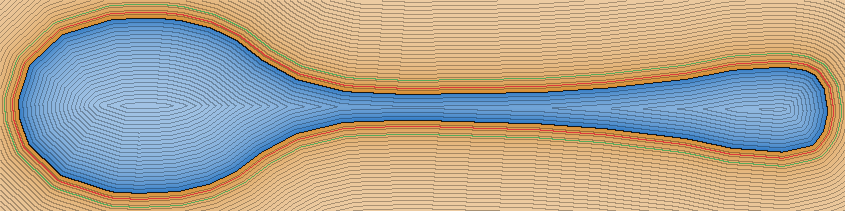
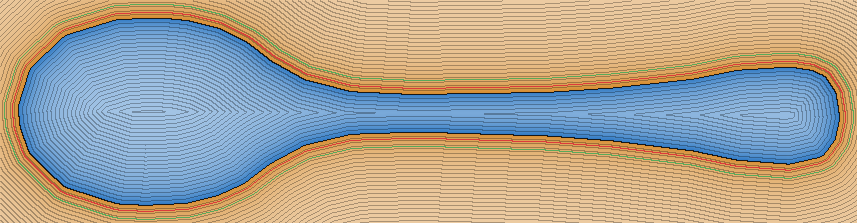
Draw both object and pocket contours.

diff --git a/pipeline/layout/preview_test.py b/pipeline/layout/preview_test.py
@@ -18,11 +18,13 @@ from pipeline.layout.loading import BuildParts, LoadSvgContours
 from pipeline.layout.parameters import LayoutParameters
 from pipeline.layout.placement import Layout, Placement
 from pipeline.layout.preview import (
+    OBJECT_DASHES,
     LayoutShapes,
     OuterFootprint,
     WriteLayoutPdf,
     WriteLayoutSvg,
 )
+from pipeline.layout.verify import DistanceToBoundary
 from conftest import Rectangle as _rectangle
 
 
@@ -36,6 +38,22 @@ def _simple_layout(grid=(2, 1)):
     parts = _parts(block=_rectangle(20.0, 10.0))
     placements = {0: Placement(0, np.array([5.0, 5.0]))}
     return Layout(grid=grid, placements=placements), parts
+
+
+def _pockets(shapes) -> list:
+    """The pocket outlines, which are the only closed shapes drawn.
+
+    Selected by that invariant rather than by position. Each part
+    contributes two shapes now - a solid pocket and a dashed object - so
+    `shapes[-1]` is the object, and a test reaching for it would quietly
+    be checking the wrong contour.
+    """
+    return [shape for shape in shapes if shape.closed]
+
+
+def _objects(shapes) -> list:
+    """The dashed object outlines drawn inside those pockets."""
+    return [shape for shape in shapes if shape.dashes == OBJECT_DASHES]
 
 
 # ------------------------------------------------------------ page framing
@@ -66,11 +84,16 @@ def test_a_part_is_drawn_inset_from_the_page_edge_by_the_wall_thickness():
 
     shapes, _, _ = LayoutShapes(layout, parts)
 
-    outline = shapes[-1].points
-    # The part sits 5mm into the interior, and the interior starts `inset`
-    # in from the rim the page is drawn to.
+    # The *pocket* sits 5mm into the interior, and the interior starts
+    # `inset` in from the rim the page is drawn to. It is the pocket that
+    # a placement positions, so it is the pocket this measures.
+    outline = _pockets(shapes)[0].points
     assert outline.min(axis=0)[0] == pytest.approx(5.0 + inset, abs=1e-6)
     assert outline.min(axis=0)[1] == pytest.approx(5.0 + inset, abs=1e-6)
+
+    # And the object is drawn a further offset in, on both axes.
+    (drawn_object,) = _objects(shapes)
+    assert (drawn_object.points.min(axis=0) > outline.min(axis=0) + 0.9).all()
 
 
 def test_every_drawn_part_lands_inside_the_page():
@@ -141,6 +164,63 @@ def test_only_parts_are_drawn_closed():
     shapes, _, _ = LayoutShapes(layout, parts)
 
     assert sum(1 for shape in shapes if shape.closed) == len(layout.placements)
+
+
+def test_each_part_is_drawn_as_a_pocket_and_the_object_inside_it():
+    """Two outlines per part, because a printed sheet answers two
+    questions: the solid pocket is what gets cut, the dashed object is
+    what you lay the real tool against.
+    """
+    layout, parts = _simple_layout(grid=(2, 2))
+    layout = Layout(
+        grid=layout.grid,
+        placements={**layout.placements, 1: Placement(1, np.array([30.0, 5.0]))},
+    )
+    parts = {**parts, 1: _parts(block=_rectangle(12.0, 8.0))[0]}
+
+    shapes, _, _ = LayoutShapes(layout, parts)
+
+    assert len(_pockets(shapes)) == 2
+    assert len(_objects(shapes)) == 2
+    for drawn in _objects(shapes):
+        assert not drawn.closed, "the object is annotation as far as the file format is concerned"
+
+
+def test_the_object_outline_sits_one_offset_inside_its_pocket():
+    """The gap between the two drawn lines is `pocket_offset` at true
+    scale - the only place in the pipeline it is visible rather than
+    inferred. Measured off the drawing, so a wrong contour reaching the
+    page shows up here rather than in a print.
+    """
+    params = LayoutParameters()
+    parts = _parts(block=_rectangle(20.0, 10.0))
+    layout = Layout(grid=(2, 1), placements={0: Placement(0, np.array([5.0, 5.0]))})
+
+    shapes, _, _ = LayoutShapes(layout, parts)
+
+    pocket = _pockets(shapes)[0].points
+    drawn_object = _objects(shapes)[0].points
+    gap = DistanceToBoundary(drawn_object, pocket)
+
+    # Never under the offset, since the trace is one-sided; never over it
+    # by more than the raster cell plus simplification `pocket` spends.
+    slack = params.pocket_resolution + params.pocket_simplify
+    assert gap.min() >= params.pocket_offset - 1e-9
+    assert gap.min() <= params.pocket_offset + slack
+
+
+def test_a_zero_offset_draws_one_outline_rather_than_two_identical_ones():
+    """With no offset the pocket *is* the object, and a dashed line
+    printed along a solid one reads as a rendering fault rather than as
+    information.
+    """
+    parts = BuildParts({0: _rectangle(20.0, 10.0)}, LayoutParameters(pocket_offset=0.0))
+    layout = Layout(grid=(2, 1), placements={0: Placement(0, np.array([5.0, 5.0]))})
+
+    shapes, _, _ = LayoutShapes(layout, parts)
+
+    assert len(_pockets(shapes)) == 1
+    assert _objects(shapes) == []
 
 
 def test_a_written_preview_reads_back_as_only_its_parts(tmp_path):
@@ -216,14 +296,25 @@ def test_an_asymmetric_part_is_not_mirrored_by_being_drawn():
     A mirrored outline measures correctly and still will not fit, because
     a reflected tool sits upside down in its pocket (D1). An L drawn with
     its long arm the other way would pass every dimension check above.
+
+    Checked on both outlines. They travel through `LocalToWorld` by the
+    same route, so one flipping without the other is unlikely - but the
+    dashed object is the line somebody lays a real tool against, which
+    makes it the one where a flip would be believed.
     """
     corner = np.array([[0.0, 0.0], [30.0, 0.0], [30.0, 8.0], [8.0, 8.0], [8.0, 20.0], [0.0, 20.0]])
     parts = _parts(ell=corner)
-    layout = Layout(grid=(2, 1), placements={0: Placement(0, np.array([5.0, 5.0]))})
+    placement = Placement(0, np.array([5.0, 5.0]))
+    layout = Layout(grid=(2, 1), placements={0: placement})
 
     shapes, _, _ = LayoutShapes(layout, parts)
 
-    # The part's own local contour, translated - nothing else. Any flip or
+    # The part's own local contours, translated - nothing else. Any flip or
     # transpose would break this equality while preserving the bounding box.
-    expected = layout.placements[0].ToWorld(parts[0]) + layout.inset
-    np.testing.assert_allclose(shapes[-1].points, expected)
+    np.testing.assert_allclose(_pockets(shapes)[0].points, placement.ToWorld(parts[0]) + layout.inset)
+
+    # The object carries its repeated closing vertex, being drawn open.
+    drawn = _objects(shapes)[0].points
+    expected = placement.ObjectToWorld(parts[0]) + layout.inset
+    np.testing.assert_allclose(drawn[:-1], expected)
+    np.testing.assert_allclose(drawn[-1], expected[0])

diff --git a/pipeline/layout/preview.py b/pipeline/layout/preview.py
@@ -7,6 +7,14 @@ interior outline and cell boundaries are drawn inside that, so a part
 sitting suspiciously close to a wall is visible rather than merely
 implied.
 
+**Each part is two outlines.** Solid is the pocket that will be cut;
+dashed is the object it was cut for, sitting `pocket_offset` inside it.
+Drawing only one was a choice between two different questions the sheet
+gets asked - *will this print* wants the pocket, and *did the capture
+come out right* wants the object laid under a real tool - so it now
+answers both. The gap between the two lines is the offset, at true scale,
+which is the only place in the pipeline you can actually see it.
+
 There is deliberately no coordinate flip anywhere in here. The layout
 frame is whatever frame the input contours arrived in, and svg_writer
 writes that frame straight onto the page; adding a flip here would mirror
@@ -43,6 +51,15 @@ GRID_COLOR = "#c0c0c0"
 
 INTERIOR_DASHES = (2.0, 1.0)
 GRID_DASHES = (1.0, 1.0)
+
+# The object drawn inside its pocket. Shorter runs than either annotation
+# dash, so it reads as dotted against the interior's long dashes rather
+# than as a third kind of boundary.
+#
+# It has to stay distinct from GRID_DASHES for a second reason: the dash
+# pattern is how `preview_test` picks cell boundaries out of the shape
+# list, so an object contour sharing that tuple would be counted as one.
+OBJECT_DASHES = (0.6, 0.6)
 
 
 def OuterFootprint(n: int, m: int) -> tuple[float, float]:
@@ -124,8 +141,35 @@ def LayoutShapes(layout: Layout, parts: dict[int, Part]) -> tuple[list[Shape], f
 
     for part_id in sorted(layout.placements):
         placement = layout.placements[part_id]
-        outline = placement.ToWorld(parts[part_id]) + inset
-        shapes.append(Shape(outline, stroke=PART_COLOR, stroke_width=PART_STROKE_MM))
+        part = parts[part_id]
+        shapes.append(Shape(placement.ToWorld(part) + inset, stroke=PART_COLOR, stroke_width=PART_STROKE_MM))
+
+        # Both contours, because a printed sheet answers two questions and
+        # they have different answers. The solid line is the pocket - what
+        # gets cut, and what has to clear its neighbours. The dashed one is
+        # the object, and it is the line you lay the real tool against to
+        # check the capture before committing to a print. Same weight and
+        # colour: neither is annotation, and which is which is carried by
+        # the dash rather than by importance.
+        #
+        # Drawn open like every other non-part outline, so
+        # `loading.LoadSvgContours` still reads a written preview back as
+        # exactly the shapes that will be cut, rather than as twice as many
+        # objects to pack.
+        #
+        # Skipped where the offset is zero and the two are the same
+        # polygon - a dashed line printed exactly along a solid one reads
+        # as a rendering fault, not as information.
+        if part.pocket_offset > 0.0:
+            shapes.append(
+                Shape(
+                    ClosedRing(placement.ObjectToWorld(part) + inset),
+                    closed=False,
+                    stroke=PART_COLOR,
+                    stroke_width=PART_STROKE_MM,
+                    dashes=OBJECT_DASHES,
+                )
+            )
 
     return shapes, width, height
 

diff --git a/render_demo.py b/render_demo.py
@@ -56,6 +56,22 @@ from pipeline.layout.render import RenderLayout, RenderLayouts
 
 DEFAULT_OUT = "docs/media"
 
+# Pocket offset the gallery is drawn at, rather than the 1mm default.
+# Neither reason is decoration.
+#
+# It exercises a *non-default* offset, so a drawing that had quietly
+# hardcoded the default - or that reached for an object where it meant a
+# pocket - comes out visibly wrong here rather than plausibly right.
+#
+# And it is legible at these scales. Each part is drawn as two outlines,
+# the pocket solid and the object dashed inside it (D5), separated by
+# exactly the offset. At the 2 to 3 pixels per mm these pictures are
+# rendered at, a 1mm ring collapses into one fuzzy band and the two lines
+# stop being two lines; 2.5mm keeps them apart. The printed PDF has no
+# such problem, being at true scale - this is a limit of the gallery, so
+# the gallery is what compensates.
+DEMO_POCKET_OFFSET_MM = 2.5
+
 # Prefix, so the stills group together in a directory that also holds the
 # animations and so a glob can find them without knowing their names.
 PREFIX = "preview_"
@@ -235,8 +251,12 @@ def Write(out: str, params: LayoutParameters | None = None, names: Sequence[str]
 
     PNG because these are compared by eye and by `git diff`, and a lossy
     format would show compression noise as though it were a change.
+
+    Defaults to `DEMO_POCKET_OFFSET_MM` rather than to the library's own
+    default - see that constant. A caller passing its own parameters gets
+    them untouched, including a 1mm offset if that is what it wants.
     """
-    params = params or LayoutParameters()
+    params = params or LayoutParameters(pocket_offset=DEMO_POCKET_OFFSET_MM)
     wanted = set(names) if names else None
 
     written = []

diff --git a/render_demo_test.py b/render_demo_test.py
@@ -43,6 +43,21 @@ def test_every_preview_renders_something(name, tmp_path):
     assert image.min() < 100, "expected something drawn on it"
 
 
+def test_the_gallery_is_drawn_at_a_non_default_pocket_offset():
+    """Deliberate, and worth pinning so a later tidy-up does not quietly
+    restore the default.
+
+    A gallery drawn at the library's own default cannot show a drawing
+    that hardcoded that default, or one that reached for an object where
+    it meant a pocket - both come out looking exactly right. It also has
+    to be big enough to see: each part is drawn as a pocket and the
+    object inside it, and at these render scales a 1mm ring between them
+    is one fuzzy band rather than two lines.
+    """
+    assert render_demo.DEMO_POCKET_OFFSET_MM != LayoutParameters().pocket_offset
+    assert render_demo.DEMO_POCKET_OFFSET_MM > LayoutParameters().pocket_offset
+
+
 def test_the_gallery_covers_every_drawing_path(tmp_path):
     """The point of the gallery is that each renderer has a picture. A
     path added without one is a path whose appearance nothing watches.

diff --git a/docs/layout.md b/docs/layout.md
@@ -461,6 +461,18 @@ ideal dilation rather than straddling it.
 The remaining raster error is the *solver's*, not the pocket's, and is
 covered by `raster_margin` (D3).
 
+**The printed sheet draws both.** Solid is the pocket, dashed is the
+object inside it. Once the two are different shapes, a sheet showing one
+of them is answering only one of the two questions it gets asked — *will
+this print* is about the pocket and its neighbours, *did the capture come
+out right* is about laying a real tool on the outline — and which one it
+answered would depend on a decision made in `preview.py` rather than on
+what the reader wanted. Drawing both also puts `pocket_offset` on paper
+at true scale, which is the one place it is visible rather than inferred.
+The object is drawn as an open polyline, like the rim and the cell grid,
+so `LoadSvgContours` still reads a written preview back as exactly the
+shapes that will be cut.
+
 ### D6: Grid size search — smallest area first
 
 Enumerate candidate `(N, M)` in increasing order of `N * M`, breaking

diff --git a/docs/layout_roadmap.md b/docs/layout_roadmap.md
@@ -281,6 +281,13 @@ Two smaller notes:
   interior outline, and cell grid as polylines. Drawn on the bin's outer
   footprint rather than its interior, so the sheet can be laid under a
   real bin and checked rim-to-rim.
+  **Two outlines per part since D5** — the solid polygon is the pocket
+  that gets cut, and a dashed polyline inside it is the object it was cut
+  for. The sheet is asked two different questions, and one line could
+  only answer one of them: *will this print* wants the pocket, *did the
+  capture come out right* wants the object under a real tool. The object
+  is drawn open like every other annotation, so `LoadSvgContours` still
+  reads a written preview back as exactly the shapes that will be cut.
 
 **Added in M6:** the same progress and cancellation hooks the window uses
 also drive the CLI. A live one-line display when stdout is a terminal

diff --git a/README.md b/README.md
@@ -160,6 +160,13 @@ shifting between the two, and the slack a deep pocket needs before you
 can lift the object back out of it. Sizes reported above are pockets, so
 they run about 2 mm over what a tape measure says.
 
+The printed sheet draws both, which is what makes it worth printing:
+**solid is the pocket** that will be cut, **dashed is the object** it was
+cut for. Lay the real tool on the dashed line to check the capture came
+out right; the ring of white between the two lines is the offset, at true
+scale, and it is the only place you can actually see it before it is
+plastic.
+
 Useful flags: `--restarts` and `--seed` steer the search, `--max-grid`
 caps the bin size, `--pocket-offset` sets how much larger than its object
 each pocket is cut, `--height` sets the depth in 7 mm units, `--no-scad`
